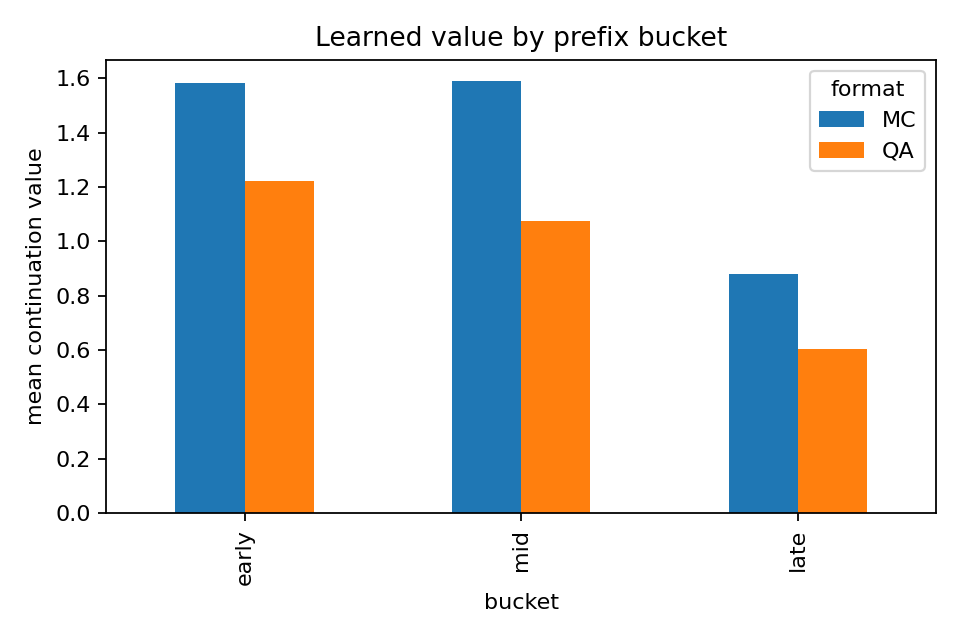
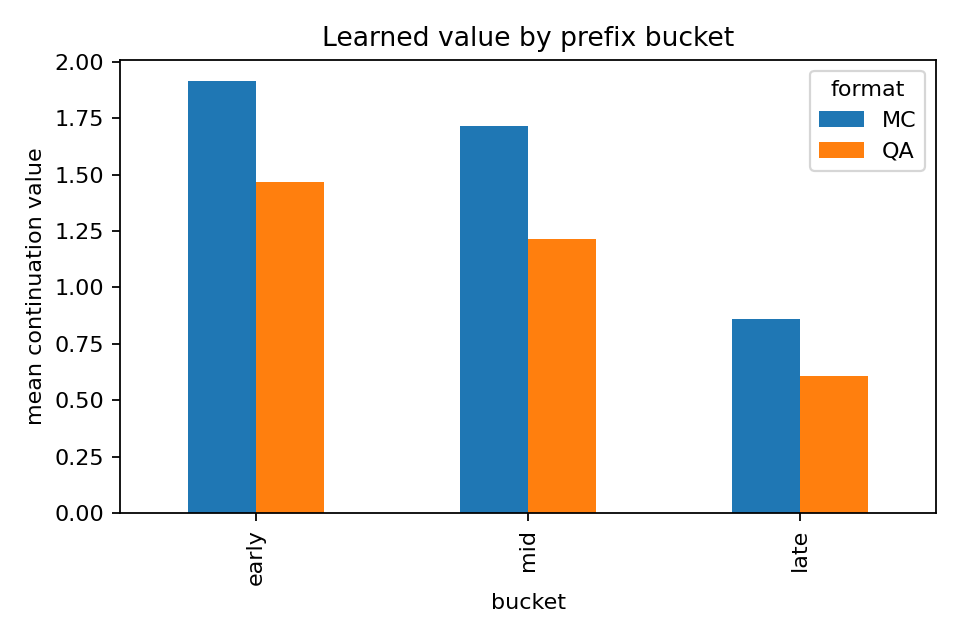
chore(stopdff): regenerate learned-value ensemble artifacts

diff --git a/paper_exports/stopdff_learned_value_table.tex b/paper_exports/stopdff_learned_value_table.tex
@@ -3,7 +3,7 @@
 Metric & Value \\
 \midrule
 Signed median StopDFF & 0.0000 \\
-Signed mean StopDFF & 0.3578 \\
+Signed mean StopDFF & 0.4717 \\
 Abs median StopDFF & 0.0000 \\
 $n_{items}$ & 2258 \\
 Gate verdict & warn \\

diff --git a/paper_exports/stopdff_learned_value.md b/paper_exports/stopdff_learned_value.md
@@ -6,10 +6,10 @@
 |-------|-------|
 | Eval split | test |
 | Reward schedule | power_mark |
-| Checkpoints | 1 |
+| Checkpoints | 3 |
 | n_items | 2258 |
 | Signed median | 0.0000 |
-| Signed mean | 0.3578 |
+| Signed mean | 0.4717 |
 | Abs median | 0.0000 |
 | Gate verdict | warn |
 

diff --git a/paper_exports/audit_card.md b/paper_exports/audit_card.md
@@ -33,6 +33,6 @@
 
 ---
 
-*Generated by `make_audit_card.py` v1.0.0 at 2026-05-30 19:04:48 UTC*
+*Generated by `make_audit_card.py` v1.0.0 at 2026-06-01 07:05:48 UTC*
 
 All thresholds pre-registered in `threshold_manifest.json` and frozen before test-set inspection.
